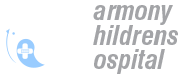
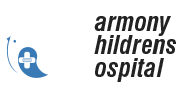
style changes

Changed region(s): [[0.5, 0.0526, 1.0, 0.6053], [0.5, 0.6316, 0.9167, 0.9737], [0.0278, 0.3684, 0.2778, 0.8947]]

diff --git a/globalstyle.css b/globalstyle.css
@@ -4,7 +4,9 @@ Last modified on: 26/05/2014
 */
 body{  
     margin: 0px;
-	background: #f2f8fd;
+	/*background: #f2f8fd;*/
+    /*background: linear-gradient(to bottom , #dde7fe , #ffffff);  Standard syntax */
+    background: #dde7fe;
     font-family:"Helvetica";
     color:#222222;
     padding-bottom: 5em;
@@ -14,6 +16,8 @@ h1,a{
     font-family: Helvetica, arial sans-serif;
     margin-left: auto;
     margin-right: auto;
+    text-transform: uppercase;
+    font-size: 2em;
 }
 h3{
     text-align:center;
@@ -37,7 +41,8 @@ input{
     text-align:left;
 }
 input.rounded:focus{
-    background-color:#3b78b4 ; 
+    background-color:#3b78b4 ;
+     
 }
 textarea{
     background-color:#3B78B4; 
@@ -49,10 +54,15 @@ textarea{
 table{
     color:#222222;
     margin:auto;
+    
 }
 table td{
-    font-size:25px;
+    font-size: 1.4em;
     text-align:left;
+}
+table th{
+    font-size: 1.4em;
+    
 }
 td *{
     float:left;
@@ -61,16 +71,25 @@ td *{
 td:first-child{
     text-align:right;
 }
+
+form input{
+    font-size: 1.4em;
+}
+
+
+
+
 /*Visual attributes*/
 .gradient{
-    background: #ebf1f6; /* Old browsers */
-    background: -moz-linear-gradient(top,  #ebf1f6 0%, #abd3ee 50%, #d5ebfb 100%); /* FF3.6+ */
-    background: -webkit-gradient(linear, left top, left bottom, color-stop(0%,#ebf1f6), color-stop(50%,#abd3ee), color-stop(100%,#d5ebfb)); /* Chrome,Safari4+ */
-    background: -webkit-linear-gradient(top,  #ebf1f6 0%,#abd3ee 50%,#d5ebfb 100%); /* Chrome10+,Safari5.1+ */
-    background: -o-linear-gradient(top,  #ebf1f6 0%,#abd3ee 50%,#d5ebfb 100%); /* Opera 11.10+ */
-    background: -ms-linear-gradient(top,  #ebf1f6 0%,#abd3ee 50%,#d5ebfb 100%); /* IE10+ */
-    background: linear-gradient(to bottom,  #ebf1f6 0%,#abd3ee 50%,#d5ebfb 100%); /* W3C */
-    filter: progid:DXImageTransform.Microsoft.gradient( startColorstr='#ebf1f6', endColorstr='#d5ebfb',GradientType=0 ); /* IE6-9 */
+    /*background: #ebf1f6; /* Old browsers */
+    /*background: -moz-linear-gradient(top,  #ebf1f6 0%, #abd3ee 50%, #d5ebfb 100%);*/ /* FF3.6+ */
+    /*background: -webkit-gradient(linear, left top, left bottom, color-stop(0%,#ebf1f6), color-stop(50%,#abd3ee), color-stop(100%,#d5ebfb));*/ /* Chrome,Safari4+ */
+    /*background: -webkit-linear-gradient(top,  #ebf1f6 0%,#abd3ee 50%,#d5ebfb 100%);*/ /* Chrome10+,Safari5.1+ */
+    /*background: -o-linear-gradient(top,  #ebf1f6 0%,#abd3ee 50%,#d5ebfb 100%);*/ /* Opera 11.10+ */
+    /*background: -ms-linear-gradient(top,  #ebf1f6 0%,#abd3ee 50%,#d5ebfb 100%);*/ /* IE10+ */
+    /*background: linear-gradient(to bottom,  #ebf1f6 0%,#abd3ee 50%,#d5ebfb 100%);*/ /* W3C */
+    background: linear-gradient(to bottom,  #dde7fe , #ffffff); /* W3C */
+    /*filter: progid:DXImageTransform.Microsoft.gradient( startColorstr='#ebf1f6', endColorstr='#d5ebfb',GradientType=0 );*/ /* IE6-9 */
     z-index:-99999;
     position:fixed;
     top:0;
@@ -78,6 +97,7 @@ td:first-child{
     right:0;
     bottom:0;
 }
+
 #patientbuttons{
     margin:auto;
     width:512px;
@@ -165,9 +185,9 @@ td:first-child{
     /*background: -webkit-linear-gradient(left top, red , blue); /* For Safari 5.1 to 6.0 */
     /*background-color: -o-linear-gradient(bottom right, red, blue); /* For Opera 11.1 to 12.0 */
     /*background-color: -moz-linear-gradient(bottom right, red, blue); /* For Firefox 3.6 to 15 */
-/*    background: linear-gradient(to bottom , #bbdcfd , #99ccff);  Standard syntax */
+    background: linear-gradient(to bottom , #3b78b4 , #448dd4);  Standard syntax 
 /*    background-color:#0074D9;*/
-    background-color:#3b78b4 ;
+/*    background-color:#3b78b4 ;*/
 /*    background-color:#0074D9;*/
 }
 ::-webkit-input-placeholder { /* WebKit browsers */
@@ -193,12 +213,12 @@ td:first-child{
     text-decoration: none; 
 }
 .tab_box{
-    border: 2px solid #222222;
+    border: 2px solid transparent;
     box-shadow: 2px 2px 2px #cccaca;
     /*border-color: #99ccff;*/
     /*border-radius: 15px 15px;*/
-/*    background-color: #afb1dc  ;*/
-    background-color: #174a7c   ;
+    background-color: #3b78b4   ;
+/*   background: linear-gradient(to bottom , #3b78b4 , #448dd4);  Standard syntax */
 /*    background: linear-gradient(to bottom , #bbdcfd , #99ccff);  Standard syntax */
     margin-bottom: 4px;
     margin-left: 4px;
@@ -319,7 +339,7 @@ td:first-child{
 	width: 800px;
 	margin: auto;
 	text-align: center;
-    background-color:#ffffff;
+    /*background-color:#ffffff;*/
     font-family: Helvetica, arial sans-serif;
 }
 /* Resource Mgt Form */
@@ -390,19 +410,20 @@ td:first-child{
 #username{ 
     text-align: left;
 }
-#wrapper{
-width: 800px;
+/*#wrapper{
+ width: 800px;
 margin: auto;
-background: #ebf1f6; /* Old browsers */
-background: -moz-linear-gradient(top,  #ebf1f6 0%, #abd3ee 50%, #d5ebfb 100%); /* FF3.6+ */
-background: -webkit-gradient(linear, left top, left bottom, color-stop(0%,#ebf1f6), color-stop(50%,#abd3ee), color-stop(100%,#d5ebfb)); /* Chrome,Safari4+ */
-background: -webkit-linear-gradient(top,  #ebf1f6 0%,#abd3ee 50%,#d5ebfb 100%); /* Chrome10+,Safari5.1+ */
-background: -o-linear-gradient(top,  #ebf1f6 0%,#abd3ee 50%,#d5ebfb 100%); /* Opera 11.10+ */
-background: -ms-linear-gradient(top,  #ebf1f6 0%,#abd3ee 50%,#d5ebfb 100%); /* IE10+ */
-background: linear-gradient(to bottom,  #ebf1f6 0%,#abd3ee 50%,#d5ebfb 100%); /* W3C */
-filter: progid:DXImageTransform.Microsoft.gradient( startColorstr='#ebf1f6', endColorstr='#d5ebfb',GradientType=0 ); /* IE6-9 */
+background: #ebf1f6;*/ /* Old browsers */
+/*background: -moz-linear-gradient(top,  #ebf1f6 0%, #abd3ee 50%, #d5ebfb 100%);*/ /* FF3.6+ */
+/*background: -webkit-gradient(linear, left top, left bottom, color-stop(0%,#ebf1f6), color-stop(50%,#abd3ee), color-stop(100%,#d5ebfb));*/ /* Chrome,Safari4+ */
+/*background: -webkit-linear-gradient(top,  #ebf1f6 0%,#abd3ee 50%,#d5ebfb 100%);*/ /* Chrome10+,Safari5.1+ */
+/*background: -o-linear-gradient(top,  #ebf1f6 0%,#abd3ee 50%,#d5ebfb 100%);*/ /* Opera 11.10+ */
+/*background: -ms-linear-gradient(top,  #ebf1f6 0%,#abd3ee 50%,#d5ebfb 100%); *//* IE10+ */
+/*background: linear-gradient(to bottom,  #ebf1f6 0%,#abd3ee 50%,#d5ebfb 100%); *//* W3C */
+/*filter: progid:DXImageTransform.Microsoft.gradient( startColorstr='#ebf1f6', endColorstr='#d5ebfb',GradientType=0 ); *//* IE6-9 */
 
-}
+/*}*/
+
 #centre{
     margin-left: auto;
     margin-right: auto;
@@ -412,8 +433,8 @@ filter: progid:DXImageTransform.Microsoft.gradient( startColorstr='#ebf1f6', end
     color:#aaa;
     clear:both;
     width:100%;
-    background-color: #3b78b4   ;
-/*    background: linear-gradient(to bottom , #99ccff, #bbdcfd );  Standard syntax */
+    /*background-color: #3b78b4   ;*/
+    background: linear-gradient(to bottom , #3b78b4 , #448dd4);  Standard syntax
     height:5em;
     color:#fff;
     padding:10px;
@@ -463,11 +484,15 @@ e.g. Admissions History button on Patient Detail Form */
 }
 .options{
 	float: left;
-	font-size: 16px;
+	font-size: 1.1em;
 	color: #99ccff;
+    display: inline;
 }  
 .rounded{
     float:left;
+    font-style:italic;
+    font-size: .7em;
+
 }
 .submit{
     color:#ffffff;
@@ -478,7 +503,7 @@ e.g. Admissions History button on Patient Detail Form */
 }
 .userdetails{
     color:#222222;
-    font-size:30px;
+    font-size:1.7em;
 }
 body{
     margin: 0px;

diff --git a/updateProcedureListing.php b/updateProcedureListing.php
@@ -1,0 +1,53 @@
+<?php
+session_start();
+if (isset($_SESSION['userID']))
+	{
+		$userId = $_SESSION['userID'];
+	}
+$current_page = basename($_SERVER['PHP_SELF']);
+require 'include/check_access.inc';
+if (check_access($userId, $current_page) == false)
+{
+	die("Sorry, You don't have access to this page!");
+}
+$pagetitle="Update Procedure Details";
+include("pagecomponents/head.php");
+?>
+
+		<div id="wrapper">
+		<div id="header">
+			<h1>Update Procedure Cost</h1>
+            
+		</div>
+		<div id="content">
+			<form id="updateProcedure" action="submit/updateProcedureSubmit.php" method="post">
+                <input type="hidden" >
+			<table>         
+            <tr><td>Select Procedure:</td> <td> <select class="rounded" type="date" name="procedure" id="procedure" required>
+            <option value="">-- Please Select the procedure to update --</option>
+            <?php
+            	include_once 'pagecomponents/connectDB.php';
+              $sql="SELECT procedure_id, procedure_description FROM procedure_listing";
+              $result=mysqli_query($con,$sql);
+              foreach($result as $procedure)
+              {
+                echo '<option value="'.$procedure['procedure_id'].'">'.$procedure['procedure_description'].'</option>';
+              }
+            ?>
+            ?>
+            </td></tr>
+            <tr><td>Revised Procedure Feee:</td> <td> <input class="rounded" type="number" name="newFee" id="newFee" required></td></tr>
+            <tr><td>Revised Medicare Rebate:</td> <td> <input class="rounded" type="number" name="newRebate" id="newRebate" required></td></tr>
+            <td><input class="rounded" type="submit" name="sumbit" id="submit" value="Submit"></td>
+                </tr>
+            </table>
+			</form>
+		</div>
+		<div id="sidebar">
+		</div>
+			<?php
+include("pagecomponents/footer.php");
+?>
+		</div>
+    </body>
+</html>

diff --git a/pagecomponents/headlogin.php b/pagecomponents/headlogin.php
@@ -12,4 +12,4 @@
             <script src="../harmonyhospital/signaturePad/assets/json2.min.js" type="text/javascript"></script>
     </head>
 <body>
-    <img src="../harmonyhospital/bird.jpg" height="142" width="242" />
+    <img src="../harmonyhospital/bird.png" height="142" width="242" />
